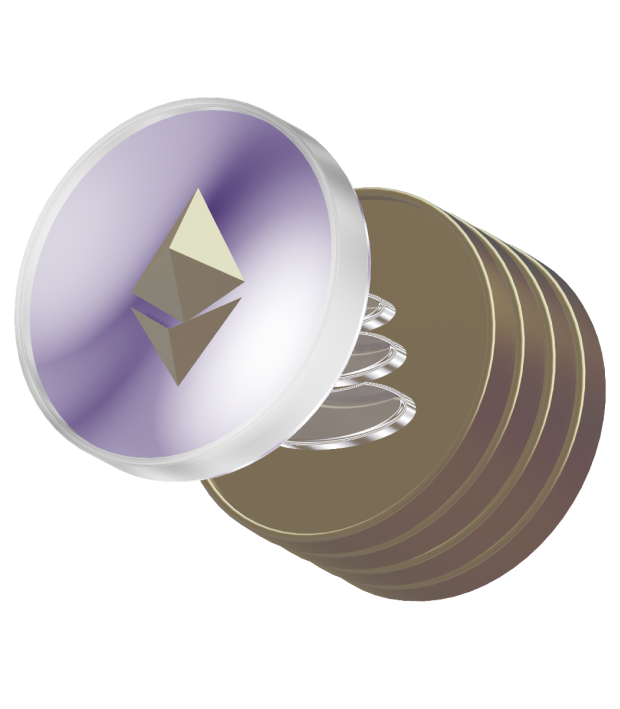
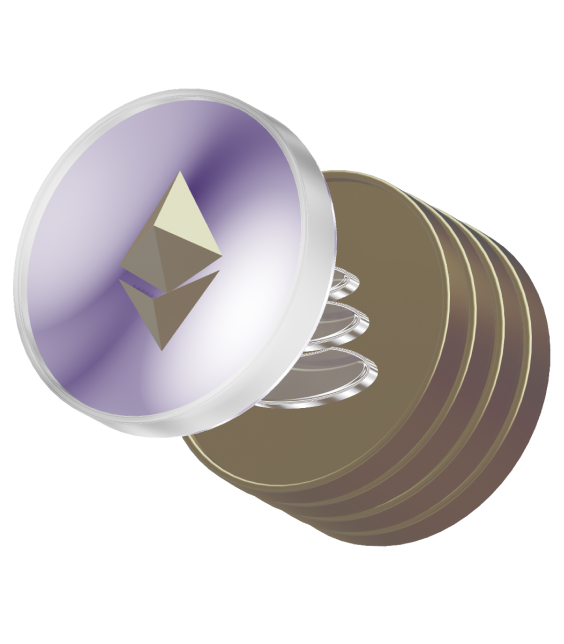
Tweaks to hero including subtle animations

diff --git a/src/components/contextual/pages/vebal/Hero.vue b/src/components/contextual/pages/vebal/Hero.vue
@@ -75,13 +75,13 @@ function navigateToGetVeBAL() {
           </BalBtn>
         </div>
       </div>
-      <div class="py-8 px-4 lg:pl-8">
-        <div class="coins flex">
+      <div class="py-8 px-4 lg:pl-8 w-full">
+        <div class="coins flex justify-between content-between">
           <div class="coin group">
             <BalImage
               class="graphic"
-              width="320"
-              height="366"
+              width="283"
+              height="323"
               :src="require('@/assets/images/coins/coins-1.png')"
               alt=""
             />
@@ -95,8 +95,8 @@ function navigateToGetVeBAL() {
           <div class="coin group">
             <BalImage
               class="graphic"
-              width="320"
-              height="366"
+              width="283"
+              height="323"
               :src="require('@/assets/images/coins/coins-2.png')"
               alt=""
             />
@@ -110,8 +110,8 @@ function navigateToGetVeBAL() {
           <div class="coin group">
             <BalImage
               class="graphic"
-              width="320"
-              height="366"
+              width="283"
+              height="323"
               :src="require('@/assets/images/coins/coins-3.png')"
               alt=""
             />
@@ -136,7 +136,11 @@ function navigateToGetVeBAL() {
 }
 .hero-content {
   @apply flex flex-col md:flex-row md:items-center max-w-screen-2xl mx-auto;
-  min-height: 400px;
+  min-height: 430px;
+}
+.hero-text {
+  opacity: 0;
+  animation: fadeIn 1s ease-out 0.1s both;
 }
 .title {
   max-width: 820px;
@@ -144,16 +148,15 @@ function navigateToGetVeBAL() {
 .hero-btn {
   min-width: 140px;
 }
-.coin:hover img {
+.coin:hover .graphic {
   transform: translateY(-8px);
 }
 .graphic {
-  @apply mb-4 lg:px-8;
-  transition: 0.3s all ease-out;
-  max-height: 420px;
+  @apply mb-4 lg:px-8 transition-transform duration-300;
 }
 .caption {
   @apply font-semibold text-sm md:text-base text-gray-400 transition-colors text-center group-hover:text-white;
+  animation: fadeInMoveUp 0.5s ease-out 0.15s both;
 }
 
 @media (min-width: 768px) {

diff --git a/src/components/_global/BalImage/BalImage.vue b/src/components/_global/BalImage/BalImage.vue
@@ -53,10 +53,12 @@ function onLoaded() {
 /* Image fade animation */
 .bal-image-fade-enter-active,
 .bal-image-fade-leave-active {
-  transition: all 0.3s ease-in-out;
+  transition: all 0.5s ease-in-out 0.1s;
+  transform: scale(1) translateY(0px);
 }
 .bal-image-fade-enter-from,
 .bal-image-fade-leave-to {
   opacity: 0;
+  transform: scale(0.97) translateY(10px);
 }
 </style>

diff --git a/src/assets/css/global/animations.css b/src/assets/css/global/animations.css
@@ -11,3 +11,23 @@
 .icon-spin-anim:hover .bal-icon {
   @apply text-blue-500;
 }
+
+@keyframes fadeIn {
+  0% {
+      opacity: 0;
+  }
+  100% {
+      opacity: 1;
+  }
+}
+
+@keyframes fadeInMoveUp {
+  0% {
+      opacity: 0;
+      transform: translateY(5px);
+  }
+  100% {
+      opacity: 1;
+      transform: translateY(0px);
+  }
+}
